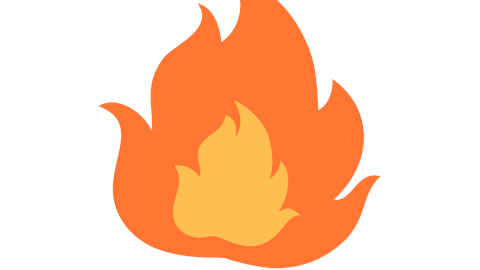
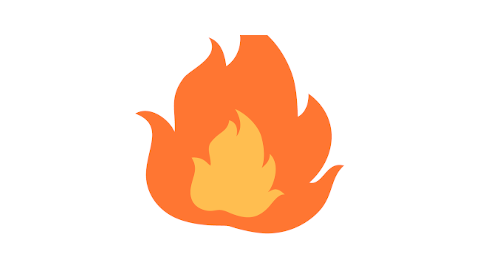
[Update] 表情の追加(ダメ~,呆れバージョン)・熱血のサイズを変更

Changed region(s): [[0.1875, 0.0, 0.8125, 1.0]]

diff --git a/src/scenario_2_client.py b/src/scenario_2_client.py
@@ -216,7 +216,12 @@ class Scenario2Server:
                         elif cmd_type == 'LCLOSE': #LCLOSE : 左目を瞑る
                             self.client_.set_blink_interval(86400) #24時間まばたきを待つ
                             self.client_.set_mode(0, 1)
-
+                        elif cmd_type == 'DAME': #DAME : ダメ~な目
+                            self.client_.set_mode(3, 3)
+                            self.client_.set_blink_interval(3)
+                        elif cmd_type == 'AKIRE': #AKIRE : 呆れた目
+                            self.client_.set_mode(4, 4)
+                            self.client_.set_blink_interval(3)
                     continue
 
                 group = cmds.groups()

diff --git a/src/donmasu_eye_server.py b/src/donmasu_eye_server.py
@@ -36,12 +36,16 @@ EYELID_SLOW_MODE = True
 PUPIL_R_FILE_PATHS =[
     'img/pupil_normal.png',
     'img/pupil_smile_right.png',
-    'img/pupil_fire.png'
+    'img/pupil_fire.png',
+    'img/pupil_dame_right.png',
+    'img/pupil_akire_right.png'
 ]
 PUPIL_L_FILE_PATHS =[
     'img/pupil_normal.png',
     'img/pupil_smile_left.png',
-    'img/pupil_fire.png'
+    'img/pupil_fire.png',
+    'img/pupil_dame_left.png',
+    'img/pupil_akire_left.png'
 ]
 
 #まぶたの映像とそれに対応するマスク映像のファイルパス
